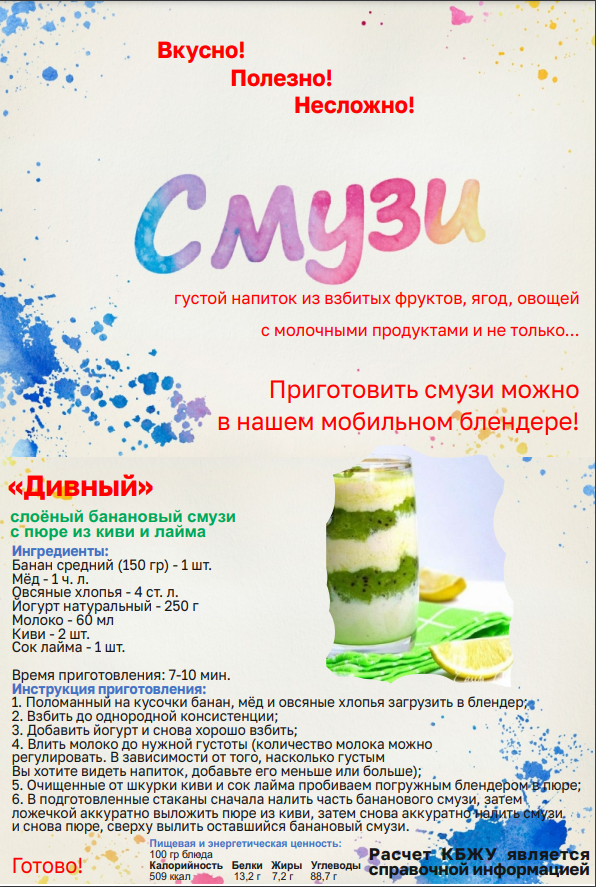
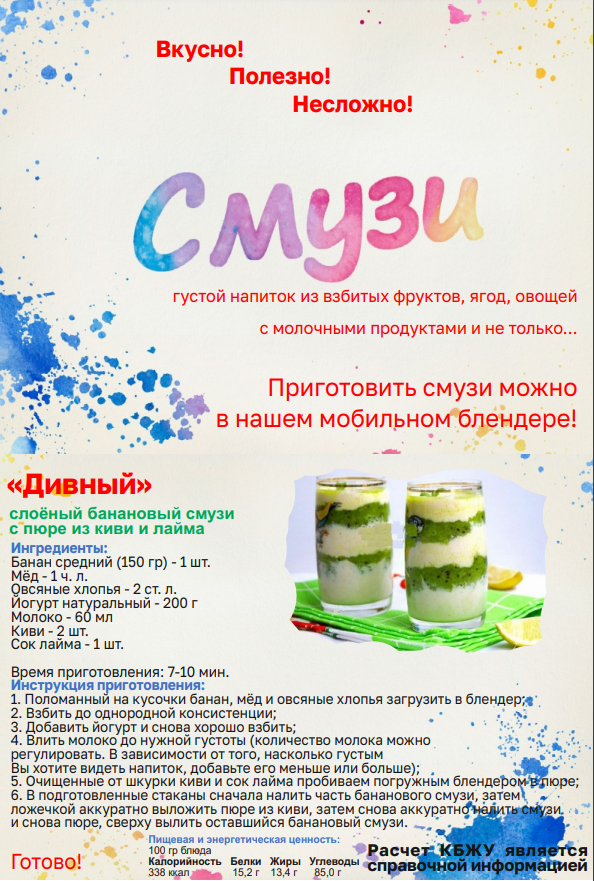
Машка попросила добавить 2 рецепта

diff --git a/index.html b/index.html
@@ -18,6 +18,8 @@
             <img src="8.png" alt="">
             <img src="9.png" alt="">
             <img src="10.png" alt="">
+            <img src="11.png" alt="">
+            <img src="12.png" alt="">
     </section>
     
 </body>
